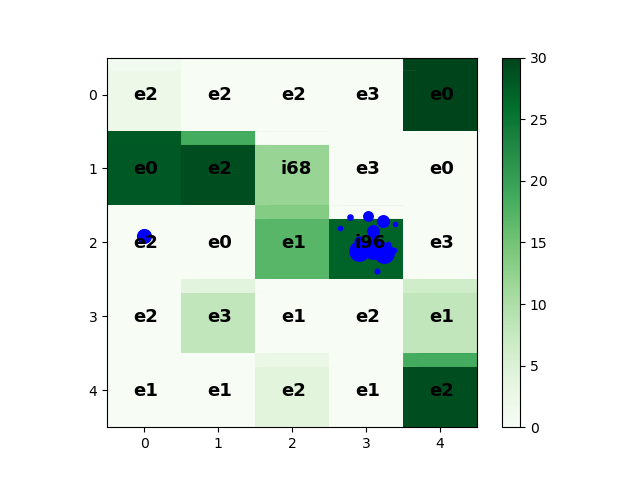
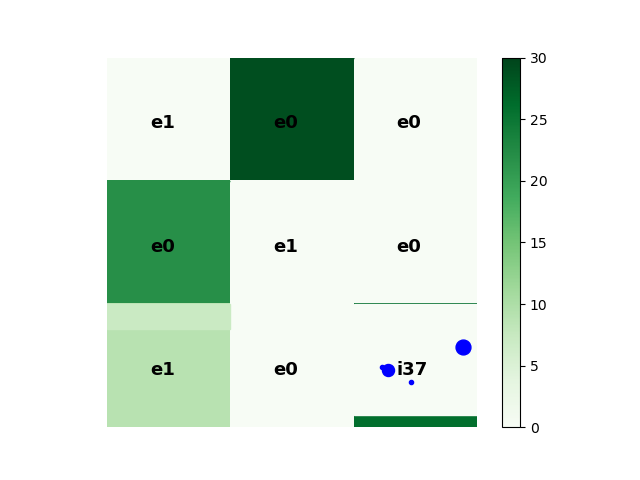
new cell hits commented, working on heatmap

diff --git a/classCell.py b/classCell.py
@@ -65,3 +65,75 @@ class Cell():
             sciPayoff = 0.2 * original
         self.numHits += 1
         return sciPayoff
+
+# import numpy as np
+# from phase import *
+# import math
+
+# class Cell():
+#     def __init__(self, payoff, location):
+#         self.payoff = payoff
+#         self.location = location
+#         self.hidden = True
+#         self.phase = Phase.experimental
+#         self.numHits = 0
+#         self.lowerx, self.upperx, self.functionVals = self.logiFunc()
+#         self.numSciHits = 0
+
+#     def __repr__(self):
+#         "string representation of Cell"
+#         return str(self.payoff)
+
+#     def logiFunc(self):
+#         lowSuccess = False
+#         highSuccess  = False
+
+#         while lowSuccess == False or highSuccess == False:
+#             # set steepness and center parameters for logistic function
+#             steepness = np.random.randint(1, 11)
+#             center = np.random.randint(0, 10)
+#             lowerx = 0
+#             upperx = []
+#             functionVals = {}
+#             lowSuccess = False
+#             highSuccess = False
+#             for x in np.arange(0, 50, 0.01):
+#                 y = float(1/(1 + math.pow(math.e, -steepness*(x-center))))
+#                 if ((y - .01) <= 0.1) and math.floor(x) > 0:
+#                     lowerx = math.floor(x)
+#                     lowSuccess = True
+#                     #self.phase = Phase.breakthrough
+#                 elif (.99 - y) <= 0.1:
+#                     upperx.append(math.ceil(x))
+#                     highSuccess = True
+#                     #self.phase = Phase.incremental
+            
+#             xval = 0
+#             while xval <= min(upperx):
+#                 yval = float(1/(1 + math.pow(math.e, -steepness*(x-center))))
+#                 functionVals[xval]=yval
+#                 xval += 1
+#         return lowerx, min(upperx), functionVals
+
+#     def cellQuery(self, board):
+#         """returns payoff for each scientist based on conditions of a cell"""
+#         original = self.payoff
+#         sciPayoff = 0.0
+
+#         if self.numHits > self.upperx:
+#             self.phase = Phase.incremental
+#         elif self.numHits > self.lowerx:
+#             self.phase = Phase.breakthrough
+#             self.hidden = False
+#             # "discover" the cell once it hits breakthrough phase
+#             if self.location not in board.discovered:
+#                 board.discovered.append(self.location)
+#                 board.undiscovered.remove(self.location)
+#         if self.phase == Phase.incremental:
+#             frac = np.random.random()
+#         else:
+#             frac = self.functionVals[self.numHits]
+#         self.payoff = frac * self.payoff
+#         sciPayoff = (1 - frac) * original
+#         self.numHits += 1
+#         return sciPayoff

diff --git a/classBoard.py b/classBoard.py
@@ -5,14 +5,24 @@ from phase import *
 from classCell import *
 
 class Board():
-    def __init__(self, rows, cols):
+    def __init__(self, rows, cols, probzero):
         self.rows = rows
         self.cols = cols
-        # creates biased random number generator with 50% chance of being 0
+        self.probzero = probzero
+
+        #Max payoff value
         self.rangeVal = 30
-        self.randomRange = [0 for i in range(self.rangeVal)]
+
+        #adds # of desired zeros
+        self.randomRange = [0 for i in range(probzero)]
+
+        #this makes 1,2,3...30 (payoff values)
         [self.randomRange.append(x) for x in range(1, self.rangeVal+1)]
-        # board has random payoff values in each cell, with more bias toward 0
+
+        #shuffles the array (so its not just  [0,0,1,2] but random [2,0,1,0])
+        np.random.shuffle(self.randomRange)
+
+        # board has random payoff values in each cell
         self.board = [[Cell(np.random.choice(self.randomRange), (i, j)) for j in range(self.cols)] for i in range(self.rows)]
         self.discovered = []
         self.undiscovered = [self.board[i][j].location for j in range(self.cols) for i in range(self.rows)]
@@ -39,6 +49,7 @@ class Board():
         plotColors = plot.cmap(plot.norm(plot.get_array()))
         original = plt.imshow(self.originalPays, cmap="Greens", vmin=0, vmax=30)
         plt.colorbar()
+        plt.axis("off")
         # fig, ax = plt.subplots()
 
         for i in range(self.rows):
@@ -46,12 +57,20 @@ class Board():
                 cell = self.board[i][j]
 
                 # compare to original payoff color
-                plt.axhline(y = j-0.41, xmin = i/self.cols+0.019, xmax = (i+1)/self.cols+0.019, color=plotColors[j][i], linewidth=10)
-
-                # rect = patches.Rectangle((i, j), 4, 4, linewidth=1, edgecolor='r', )
-
-                # ax.add_patch(rect)
-
+                
+                # we want at least some of the original payoff to show
+                if self.originalPays[j][i] != 0:
+                    if cell.payoff/self.originalPays[j][i] < 0.1:
+                        rect=patches.Rectangle((i-0.5,j-0.5),
+                                1, 0.9,
+                                fill=True,
+                                color=plotColors[j][i])
+                    else:
+                        rect=patches.Rectangle((i-0.5,j-0.5),
+                                1, (1 - (cell.payoff/self.originalPays[j][i])),
+                                fill=True,
+                                color=plotColors[j][i])
+                    plt.gca().add_patch(rect)
                 # finding the number of scientists on each cell each round
                 cell.numSciHits = 0
                 if cell.location in cellsHit.keys():

diff --git a/classScientist.py b/classScientist.py
@@ -21,9 +21,7 @@ class Scientist():
 
     def probCell(self, board, weights):
         """"generates a probability distribution over the cells"""
-        print()
         citToCareer = (self.citcount-(31 - self.career))
-        print("cit, career, citToCareer: ", self.citcount, self.career, citToCareer)
         # if they have a low citToCareer difference, then they value citations more
         if citToCareer <= -1:
             c = weights["citation"] * abs(citToCareer)
@@ -33,7 +31,6 @@ class Scientist():
             c = weights["citation"]
 
         impactToCareer = (self.impact-(31 - self.career))
-        print("impact, career, impactToCareer: ", self.impact, self.career, impactToCareer)
         # if they have a low impactToCareer difference, then they value impact more
         if impactToCareer <= -1:
             i = weights["impact"] * abs(impactToCareer)
@@ -43,7 +40,6 @@ class Scientist():
             i = weights["impact"]
 
         e = weights["exploration"]
-        print("cie: ", c, i, e)
 
         # Calculate the probabilities for each cell
         probabilities = np.zeros_like(board.board)

diff --git a/Run.py b/Run.py
@@ -49,8 +49,8 @@ def batchRun(board, numScientists, numRuns):
         # print statistics at the end of the run
         print("Board with payoff values: ", oneRun(board, cellsHit, j+1))
         # print("Department: ", dept)
-        print()
     currTotal = sum(board.flatten(board.getPayoffs()))
+    print()
     print("Percentage of total payoff discovered: ", f"{((board.totalPayoff - currTotal)/board.totalPayoff)*100:.2f}")
     print("Percentage of cells discovered (that entered into breakthrough phase): ",
             f"{(len(board.discovered)/len(board.flatten(board.board)))*100:.2f}")
@@ -63,5 +63,5 @@ def batchRun(board, numScientists, numRuns):
             save_all=True, duration=500, loop=1)
     return
 
-board = Board(5, 5)
-batchRun(board, 20, 20)
+board = Board(3, 3, 30)
+batchRun(board, 4, 20)
